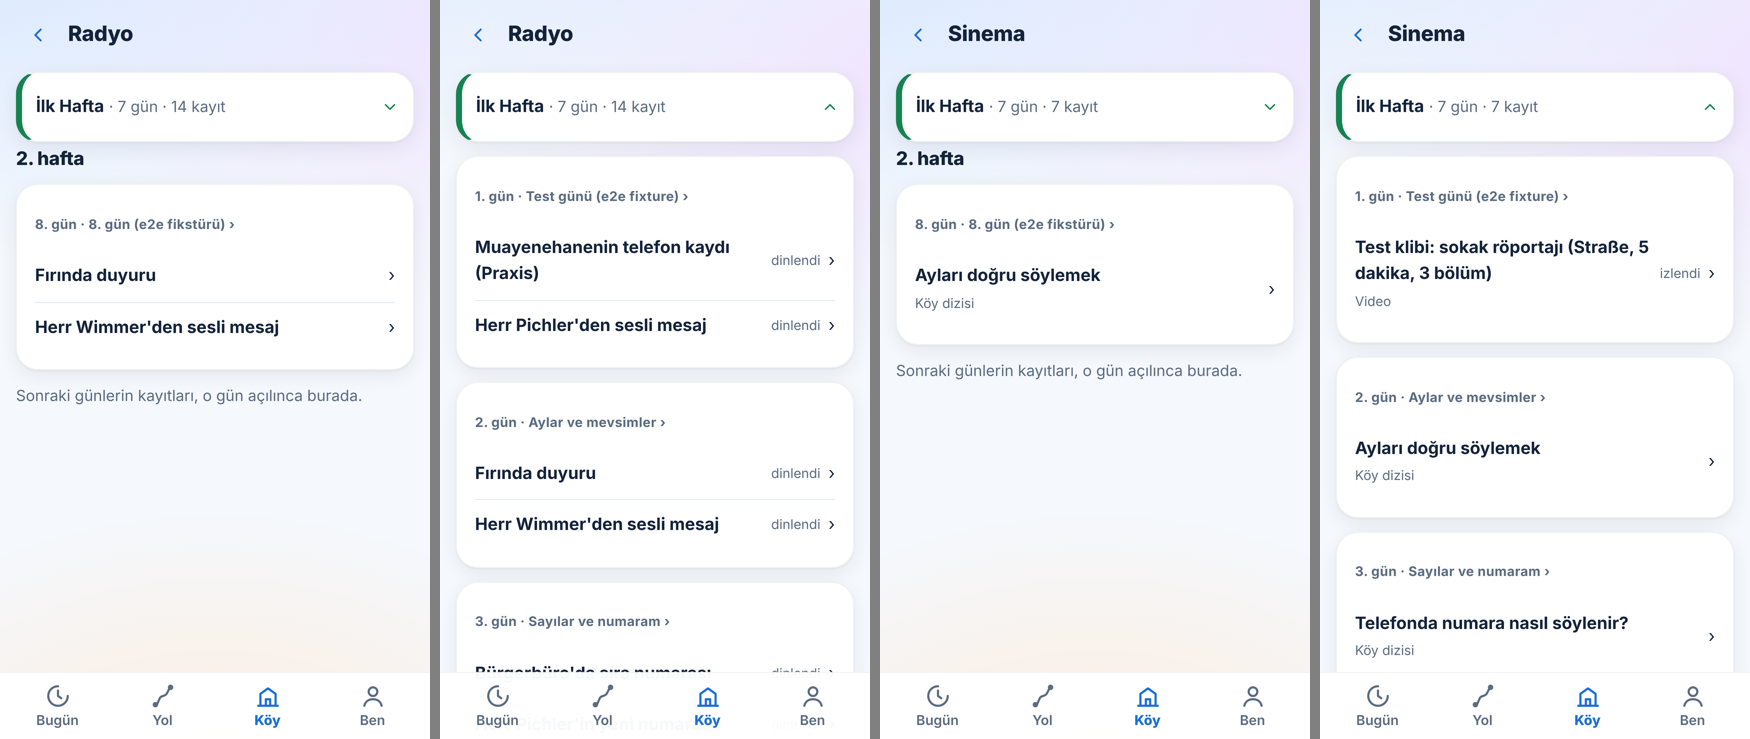
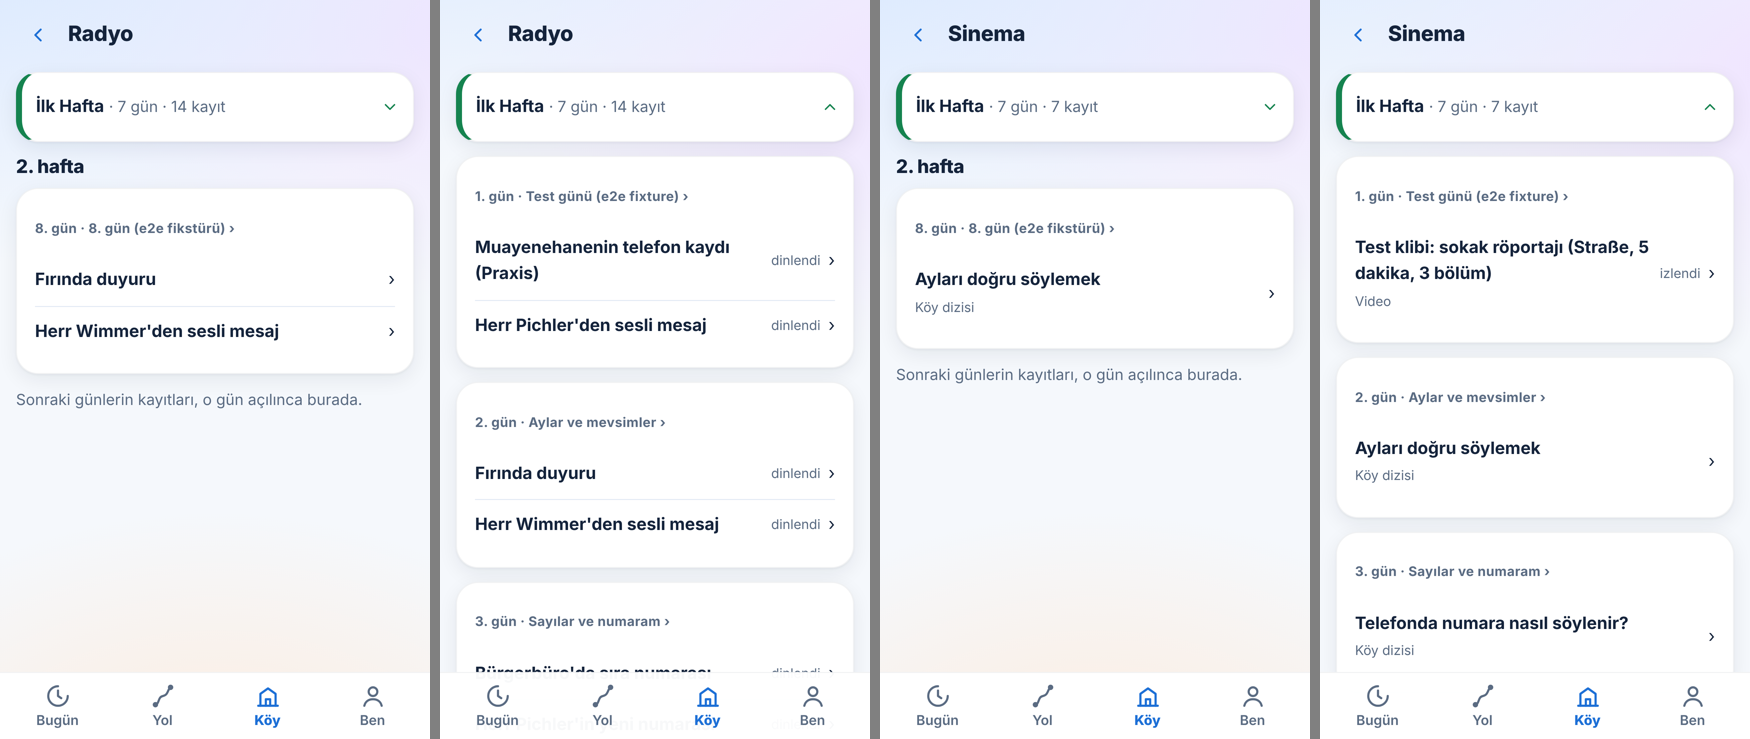
Köy katlama: eski kümede tek hafta kalmaz (inceleme #265 P1-1); aynı anda tek hafta açık (P2-1); başlık yakınlığı (P2-2)
Claude-Session: https://claude.ai/code/session_016gishGvHwLdm8sPAJCehSU

diff --git a/web/src/core/koy.ts b/web/src/core/koy.ts
@@ -114,7 +114,7 @@ export function acikAdimlar(gunler: readonly YolGunu[], tur: "okuma" | "prova"):
  * Köy listeleri haftaya göre katlanır (PM-122 md. 2.1, KAPI-İŞ 7122131212; Yol #243 gibi): listedeki en son hafta (açılmış
  * günlerden; içinde bulunulan hafta, o hafta bu mekânda öğe yoksa öğesi olan son hafta) açık gelir, öbür haftalar tek satır,
  * dokununca açılır. 52 haftada 51 satır tek başına gezginin ekran sınırına (80) yaklaşır: son `YAKIN_HAFTA` hafta ayrı satır,
- * daha eskiler tek satırda ("1.–N. hafta"), dokununca hafta satırları açılır. Liste yalnız açılmış günlerden gelir (#224 kuralı).
+ * daha eskiler (en az iki hafta) tek satırda ("1.–N. hafta"), dokununca hafta satırları açılır. Liste yalnız açılmış günlerden gelir (#224 kuralı).
  */
 export const YAKIN_HAFTA = 4;
 export interface HaftaKat<T> { hafta: number; ogeler: T[] }
@@ -124,7 +124,8 @@ export function haftaKatla<T extends { day: number }>(ogeler: readonly T[]): Kat
   for (const o of ogeler) { const h = haftaOf(o.day); const l = m.get(h); if (l) l.push(o); else m.set(h, [o]); }
   const kat = [...m].sort((a, b) => a[0] - b[0]).map(([hafta, l]) => ({ hafta, ogeler: l.slice().sort((a, b) => a.day - b.day) }));
   const acik = kat.pop() ?? null;
-  const kes = Math.max(0, kat.length - YAKIN_HAFTA);
+  // eski kümede tek hafta kalacaksa kümelenmez ("1.–1. hafta" yok; inceleme #265 P1-1): o hafta da ayrı satır
+  const kes = kat.length - YAKIN_HAFTA >= 2 ? kat.length - YAKIN_HAFTA : 0;
   return { acik, yakin: kat.slice(kes), eski: kat.slice(0, kes) };
 }
 /** ilk açılışta (hiçbir satır açılmamışken) listenin dokunulabilir öğe sayısı: eski haftalar satırı + yakın hafta satırları + açık haftanın öğeleri */

diff --git a/web/src/core/koy.test.ts b/web/src/core/koy.test.ts
@@ -161,6 +161,16 @@ describe("Köy: listeler haftaya göre katlanır (PM-122 md. 2.1)", () => {
     expect(k.eski.map((h) => h.hafta)).toEqual([1, 2, 3, 4, 5]);
     expect(katDokunus(k, () => 1)).toBe(1 + YAKIN_HAFTA + 7);
   });
+  it("açık haftadan önce 5 hafta: eski küme tek haftayla kurulmaz, beşi de ayrı satır (inceleme #265 P1-1); boşluklu haftalar", () => {
+    const k = haftaKatla(d(...Array.from({ length: 36 }, (_, i) => i + 1)));
+    expect(k.acik?.hafta).toBe(6);
+    expect(k.eski).toEqual([]); expect(k.yakin.map((h) => h.hafta)).toEqual([1, 2, 3, 4, 5]);
+    const b = haftaKatla(d(1, 15, 29, 36, 50, 64, 78));
+    expect(b.acik?.hafta).toBe(12);
+    expect(b.eski.map((h) => h.hafta)).toEqual([1, 3]);
+    expect(b.yakin.map((h) => h.hafta)).toEqual([5, 6, 8, 10]);
+    expect(haftaKatla(d(...Array.from({ length: 43 }, (_, i) => i + 1))).eski.map((h) => h.hafta)).toEqual([1, 2]);
+  });
   it("52 hafta (364 gün, gün başına bol kayıt): Sinema, Radyo, Kütüphane, Pazar ilk açılışta gezgin sınırının altında", () => {
     const CAP = Number(/^CAP = (\d+)/m.exec(readFileSync(new URL("../../../tests/e2e/gezgin.py", import.meta.url), "utf8"))![1]);
     expect(CAP).toBeGreaterThan(0);

diff --git a/web/src/screens/Koy.tsx b/web/src/screens/Koy.tsx
@@ -103,8 +103,13 @@ const haftaAd = (h: number) => (h === 1 ? "İlk Hafta" : `${h}. hafta`);
  * listesinde satır; `ciz` <li> döndürür).
  */
 function HaftaKatlari<T extends { day: number }>({ k, kap, ozet, ciz }: { k: Katlar<T>; kap: "kart" | "liste"; ozet: (l: T[]) => string; ciz: (l: T[]) => ComponentChildren }) {
+  // aynı anda tek hafta açık (eski haftalar satırı açıkken içinden bir hafta daha): açılmış hâl de kısa kalır (inceleme #265 P2-1)
   const [acik, setAcik] = useState<Set<number>>(new Set());
-  const cevir = (h: number) => setAcik((s) => { const x = new Set(s); if (x.has(h)) x.delete(h); else x.add(h); return x; });
+  const cevir = (h: number) => setAcik((s) => {
+    if (s.has(h)) { const x = new Set(s); x.delete(h); if (h === 0) for (const e of k.eski) x.delete(e.hafta); return x; }
+    const x = new Set<number>(h !== 0 && s.has(0) && k.eski.some((e) => e.hafta === h) ? [0] : []);
+    x.add(h); return x;
+  });
   // 0: eski haftalar satırı
   const satir = (anahtar: number, etiket: string, alt: string, vurgu: string | undefined, test: string) => {
     const ac = acik.has(anahtar);

diff --git a/web/src/styles.css b/web/src/styles.css
@@ -638,7 +638,7 @@ main { overflow-x: clip; }
 .kat-satir.eski .hafta-satir-btn .ico { color: var(--muted); }
 .list li.kat-satir { padding: 0; }
 .list li.kat-baslik { padding: 14px 0 0; margin: 0; }
-.sectitle.kat-baslik { margin: 6px 0 0; }
+.sectitle.kat-baslik { margin: 14px 0 -4px; }
 .hafta-gunler { list-style: none; margin: 0; padding: 0; display: grid; gap: 4px; }
 .hafta-gunler li { min-height: 44px; gap: 10px; border-top: 1px solid var(--line); flex-wrap: nowrap; }
 .zayif-liste { list-style: none; margin: 0; padding: 0; display: grid; gap: 4px; }
